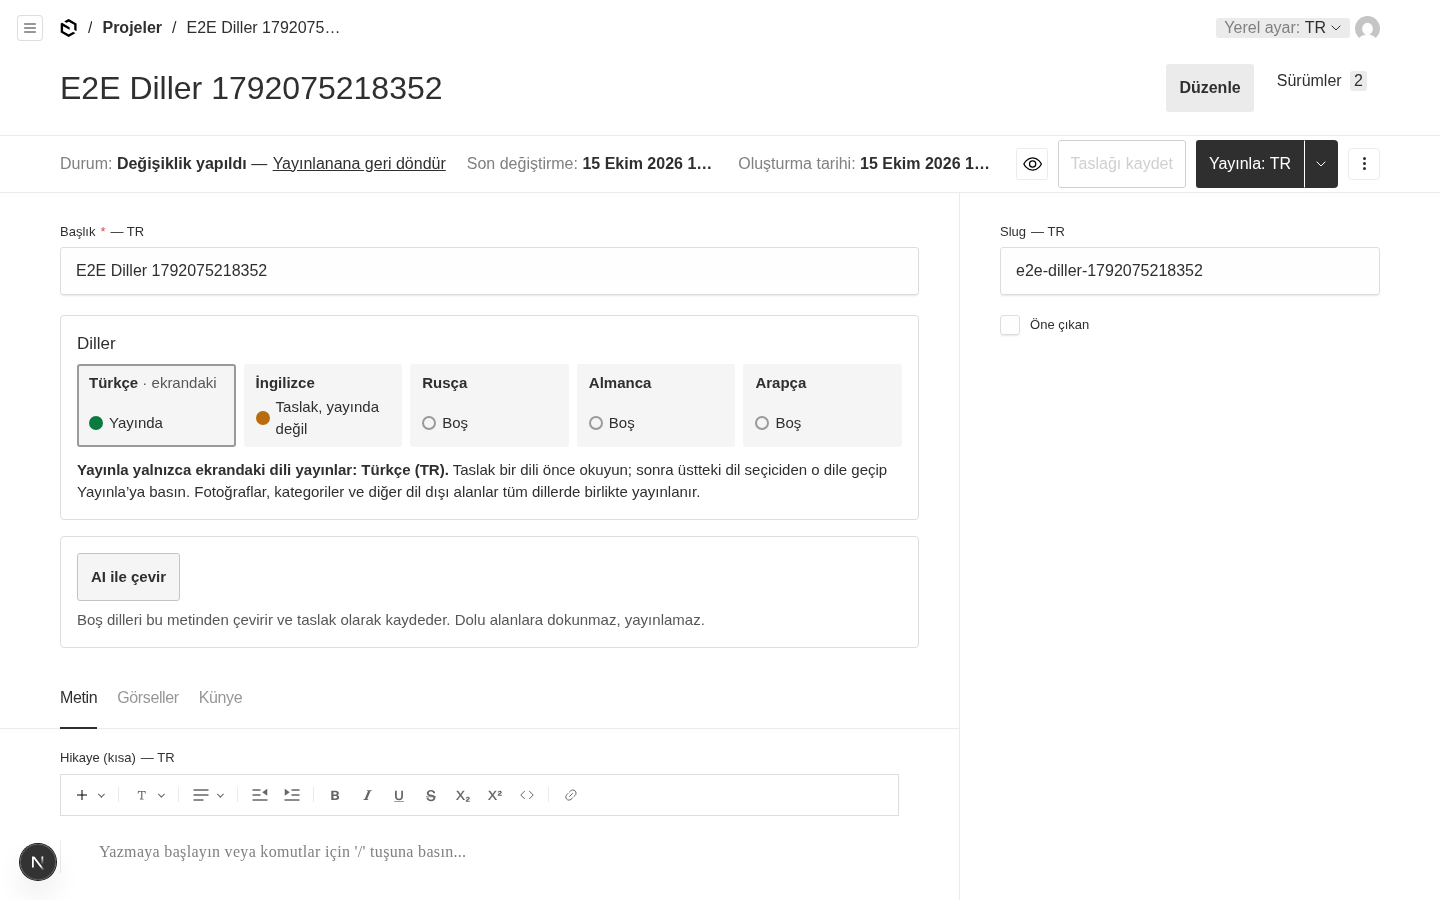
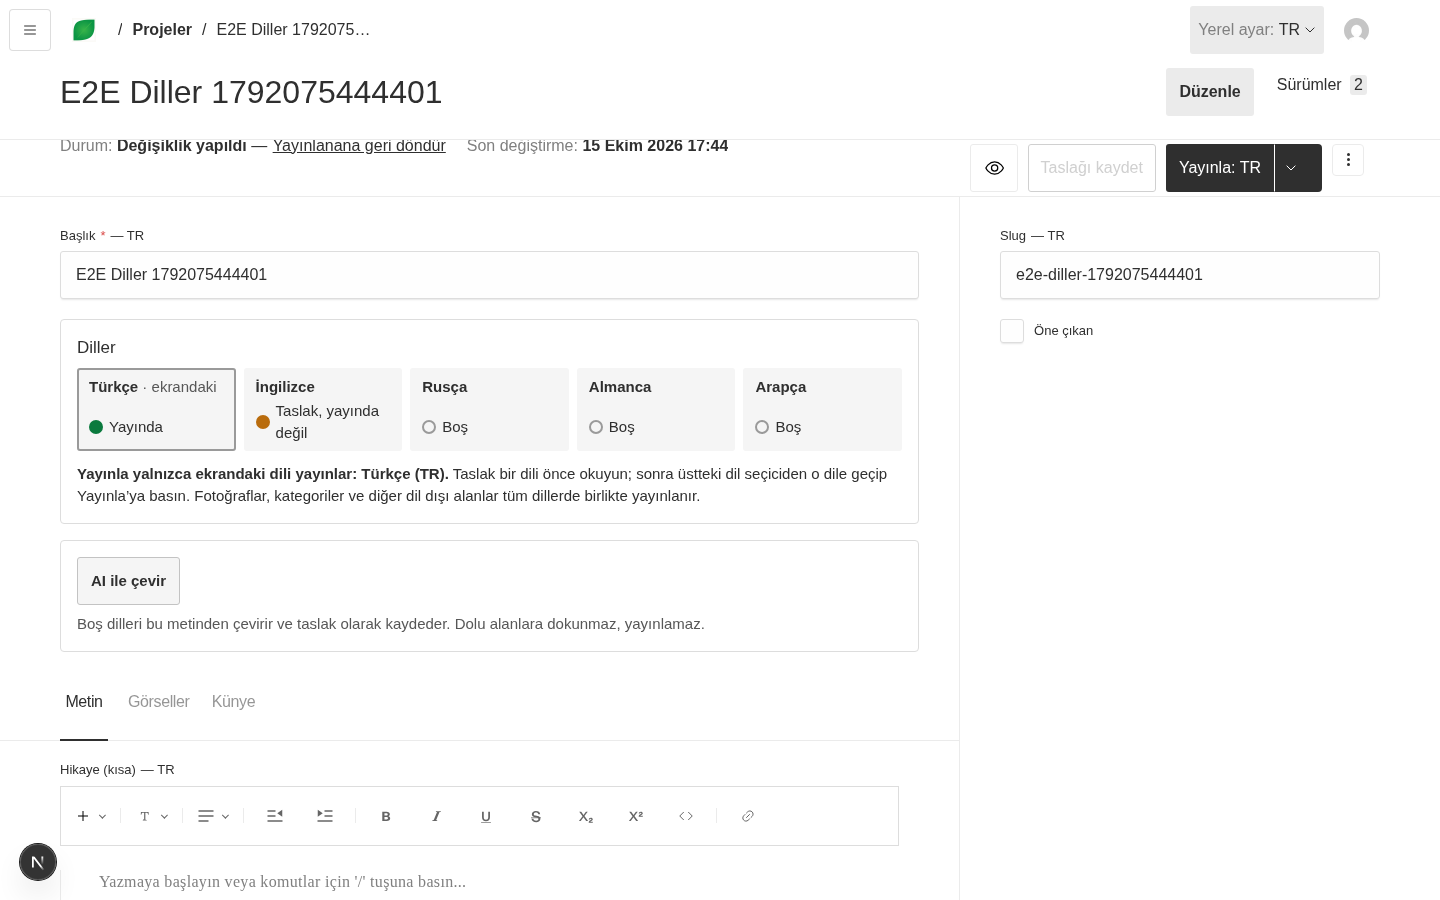
design(admin): 48px tabs, live-preview eye and rich-text toolbar; tap check on project edit (#158)
After rebasing on #160: admin-tap-targets now also measures a project edit view (Diller
panel, AI tools, tabs, fixed toolbar) for admin and editor at 390 and 1440.

diff --git a/tests/e2e/admin-tap-targets.e2e.spec.ts b/tests/e2e/admin-tap-targets.e2e.spec.ts
@@ -49,6 +49,7 @@ const users = (['admin', 'editor'] as const).map((role) => ({
 const category = `E2E Tap ${run}`
 let categoryId: number
 let mediaId: number
+let projectId: number
 
 test.describe('admin tap targets', () => {
   test.describe.configure({ mode: 'serial', timeout: 300_000 })
@@ -57,6 +58,8 @@ test.describe('admin tap targets', () => {
     const payload = await getPayload({ config })
     for (const u of users) await payload.create({ collection: 'users', data: u })
     categoryId = (await payload.create({ collection: 'categories', locale: 'tr', data: { name: category } })).id
+    // #158: an existing record shows the "Diller" panel and the AI tools in the main column.
+    projectId = (await payload.create({ collection: 'projects', locale: 'tr', data: { title: `E2E Tap proje ${run}`, _status: 'published' } })).id
     const photo = await sharp({ create: { width: 800, height: 600, channels: 3, background: { r: 140, g: 100, b: 60 } } }).jpeg().toBuffer()
     for (const i of [1, 2]) {
       const doc = await payload.create({
@@ -77,6 +80,7 @@ test.describe('admin tap targets', () => {
       await payload.delete({ collection: 'media', where: { category: { equals: categoryId } } })
       await payload.delete({ collection: 'categories', id: categoryId })
     }
+    if (projectId) await payload.delete({ collection: 'projects', id: projectId })
     await payload.delete({ collection: 'users', where: { email: { in: users.map((u) => u.email) } } })
   })
 
@@ -122,6 +126,9 @@ test.describe('admin tap targets', () => {
         await p.goto('/admin/collections/projects')
         await expect(p.locator('.list-header')).toBeVisible()
         await expectNoSmallTargets(p, at('projects list'))
+        await p.goto(`/admin/collections/projects/${projectId}`)
+        await expect(p.locator('.locale-status [data-state="live"]')).toHaveCount(1)
+        await expectNoSmallTargets(p, at('project edit'))
         if (user.role === 'admin') {
           // Arrays, blocks, collapsibles and their row actions.
           await p.goto('/admin/globals/homepage')

diff --git a/src/app/(payload)/custom.scss b/src/app/(payload)/custom.scss
@@ -318,3 +318,32 @@ html[data-theme='dark'] .brand-logo {
   font-size: 16px;
   font-weight: 700;
 }
+
+/* #158: edit forms. Short tab labels ("SEO", "Metin") and the live preview eye get a 48px box too. */
+.tabs-field__tab-button {
+  min-inline-size: 48px;
+  justify-content: center;
+}
+
+.live-preview-toggler {
+  display: inline-flex;
+  align-items: center;
+  justify-content: center;
+  min-inline-size: 48px;
+  min-block-size: 48px;
+}
+
+/* The fixed rich-text toolbar (FixedToolbarFeature, for phones) and the floating link editor: 48px buttons. The fixed
+   toolbar wraps onto a second row on a phone instead of shrinking them. */
+.fixed-toolbar {
+  flex-wrap: wrap;
+  block-size: auto;
+}
+
+.fixed-toolbar .toolbar-popup__button,
+.fixed-toolbar .toolbar-popup__dropdown,
+.link-editor button,
+.insert-paragraph-at-end {
+  min-inline-size: 48px;
+  min-block-size: 48px;
+}
